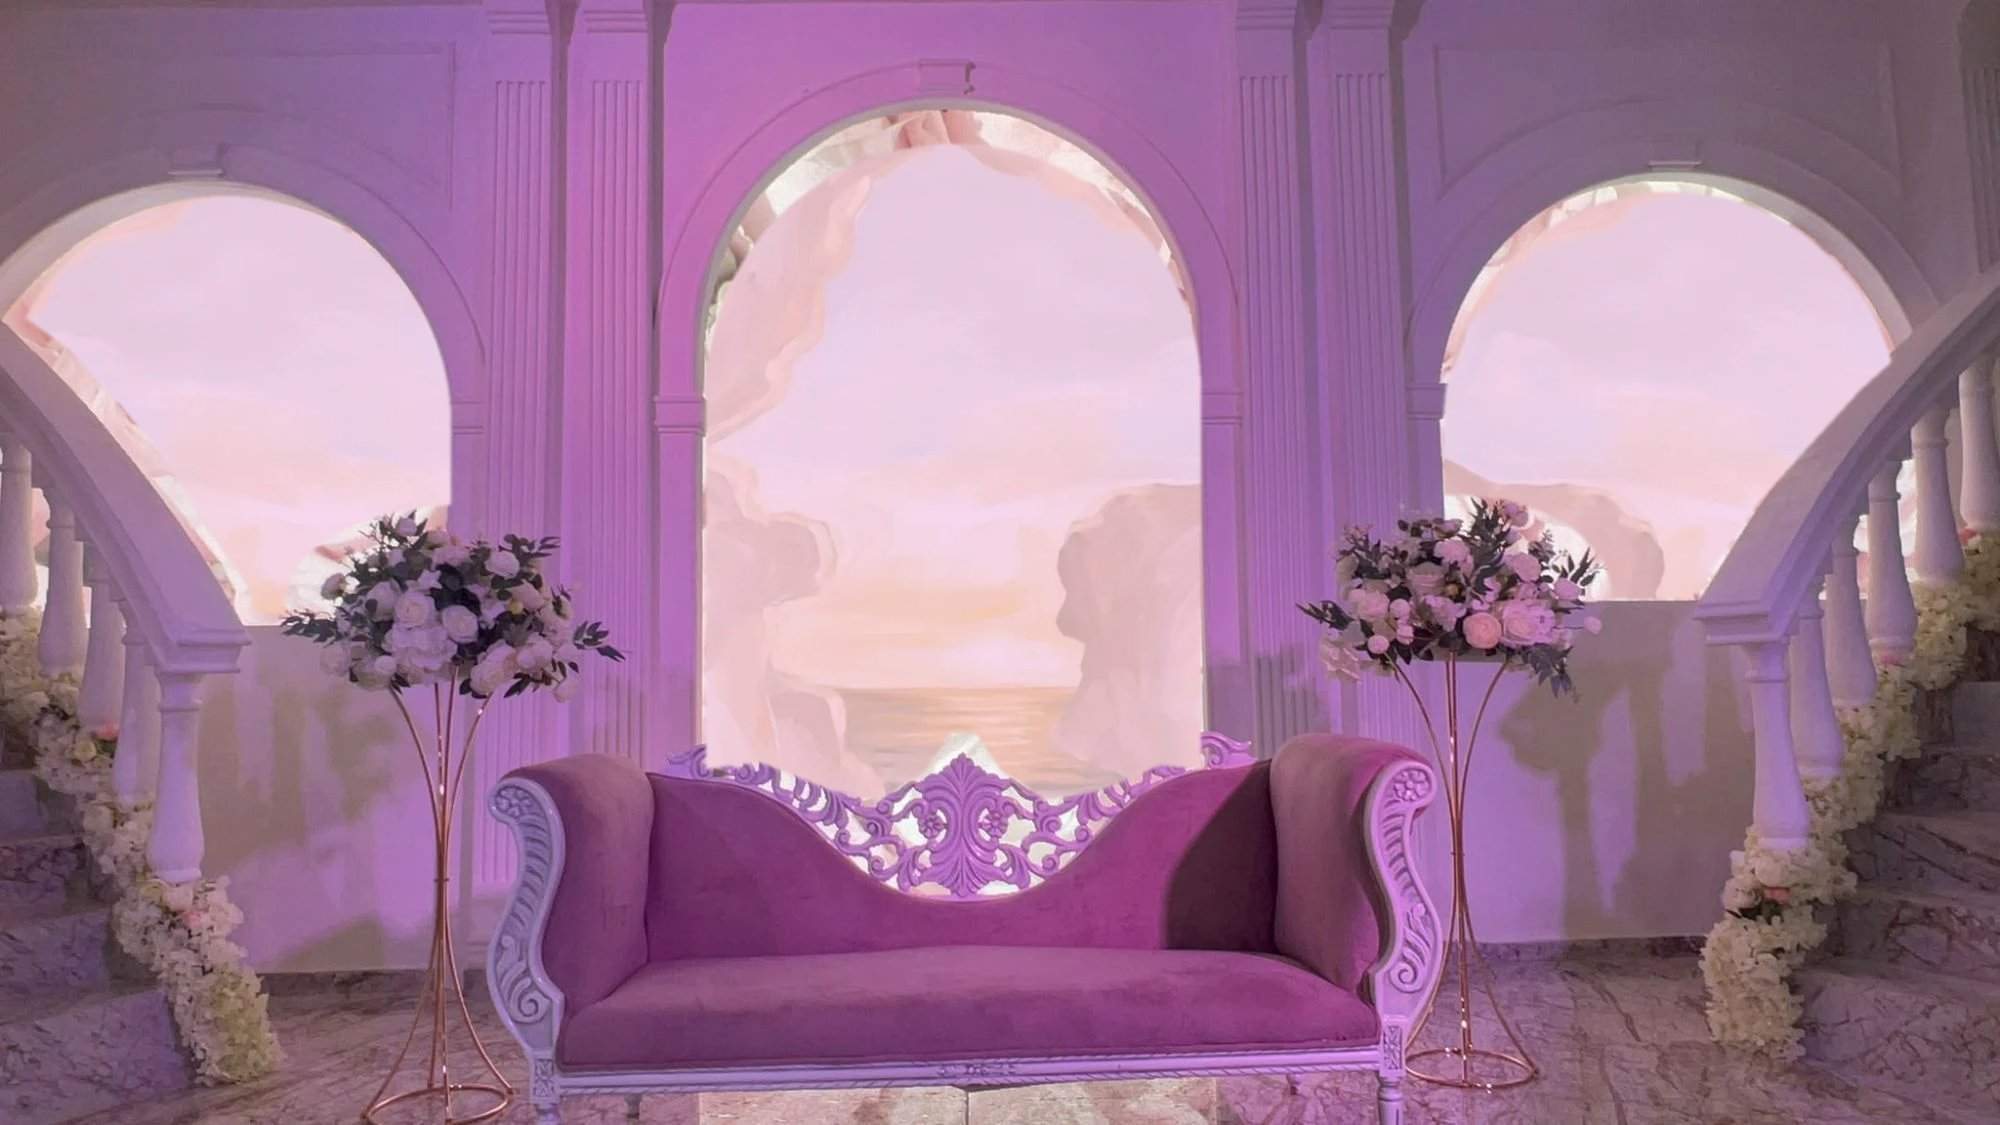
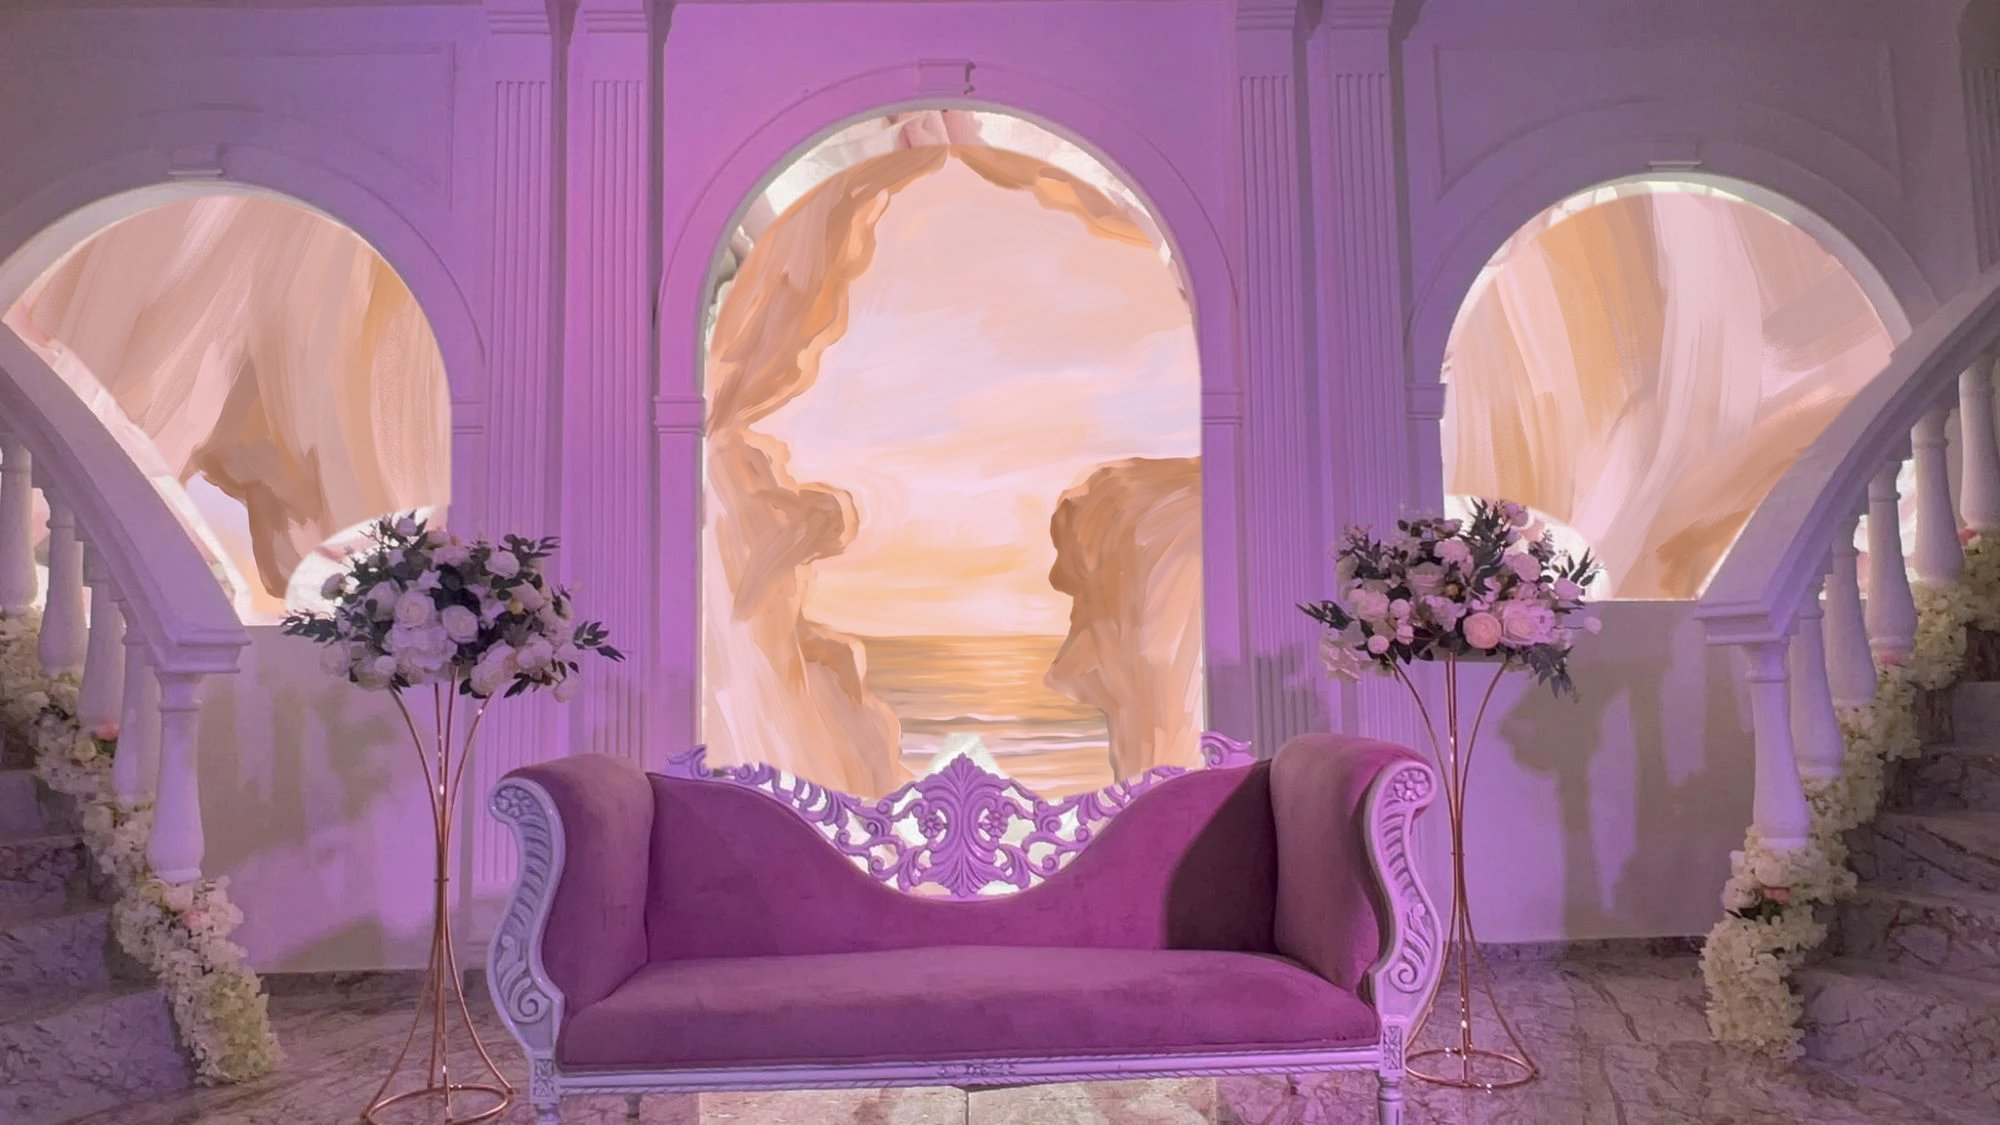
Écran du Palacio : grotte d'Hercule peinte au format de l'écran, dans le style du faire-part (1 génération)
Claude-Session: https://claude.ai/code/session_01Qv8LPbr9A3wfyyg7dTHTn1

Changed region(s): [[0.341, 0.1244, 0.62, 0.7156], [0.713, 0.1556, 0.961, 0.56], [0.0, 0.1556, 0.248, 0.5289]]

diff --git a/ecran-palacio/shot.js b/ecran-palacio/shot.js
@@ -1,5 +1,5 @@
 const {chromium}=require('playwright');
 (async()=>{const b=await chromium.launch();const p=await b.newPage({viewport:{width:1920,height:1080}});
-for(const n of ['1-accueil','1-grotte-fairepart','2-soiree','3-fin']){await p.goto('file://'+__dirname+'/'+n+'.html');await p.waitForTimeout(600);await p.screenshot({path:__dirname+'/'+n+'.png'});
+for(const n of ['1-accueil','2-soiree','3-fin']){await p.goto('file://'+__dirname+'/'+n+'.html');await p.waitForTimeout(600);await p.screenshot({path:__dirname+'/'+n+'.png'});
  await p.goto('file://'+__dirname+'/maquette.html#'+n+'.png');await p.waitForTimeout(400);await p.screenshot({path:__dirname+'/maquette-'+n+'.jpg',type:'jpeg',quality:85});}
 await b.close();})();
